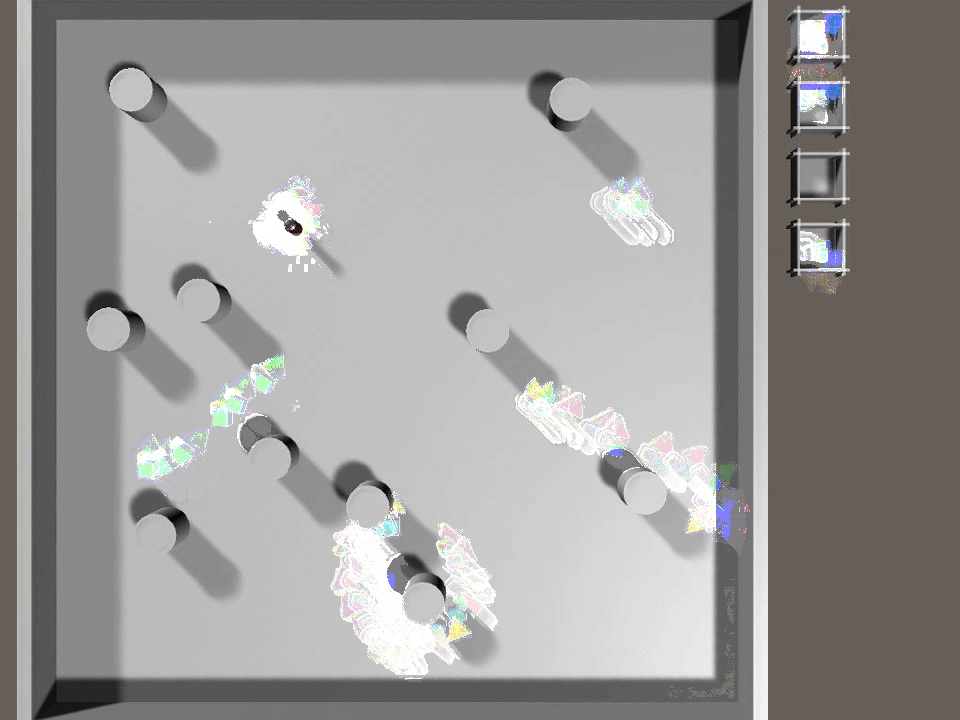
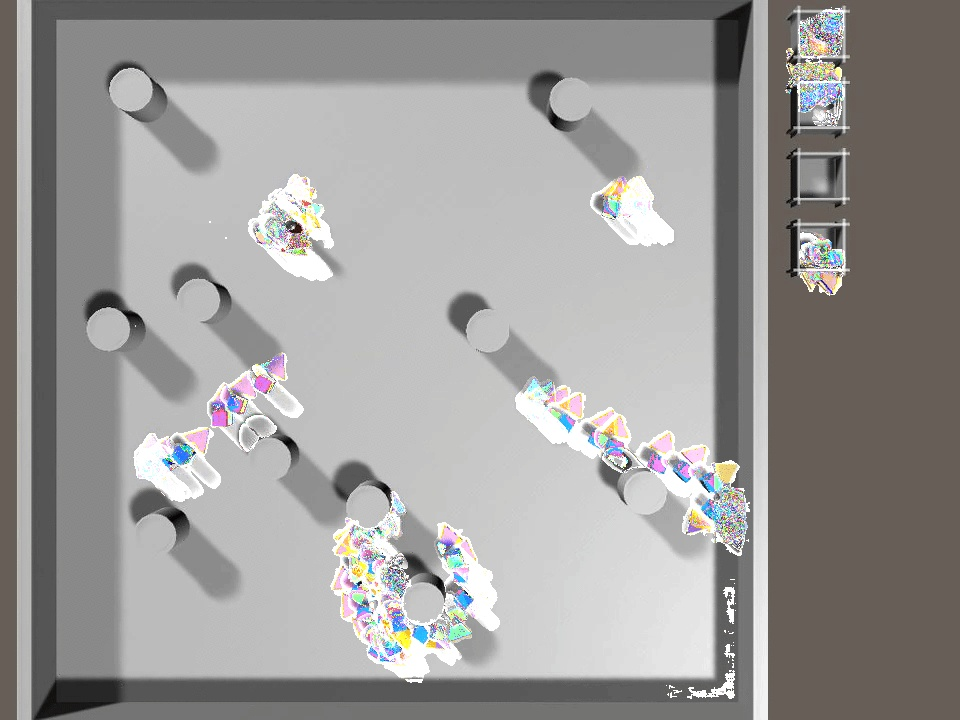
合成方法を変更

diff --git a/main.py b/main.py
@@ -19,15 +19,13 @@ while True:
     if img_sum is None:
         img_sum = img_src
     else:
-        #img_src_rgba = cv2.cvtColor(img_src, cv2.COLOR_RGB2RGBA)
         img_sum_rgba = cv2.cvtColor(img_sum, cv2.COLOR_RGB2RGBA)
         img_src_and = cv2.bitwise_and(frame, frame, mask=fgmask)
         img_src_rgba = cv2.cvtColor(img_src_and, cv2.COLOR_RGB2RGBA)
         img_src_rgba[..., 3] = np.where(np.all(img_src_and==0, axis=-1), 0, 255)
-        #img_sum = img_sum_rgba + img_src_rgba
-        img_sum = cv2.bitwise_or(img_sum_rgba, img_src_rgba)
-        #img_sum = img_sum_rgba + img_or
-        #img_sum = cv2.add(img_sum_rgba, img_src_rgba)
+        img_sum_add = img_sum_rgba + img_src_rgba
+        #img_sum = cv2.bitwise_or(img_sum_rgba, img_src_rgba)
+        img_sum = cv2.addWeighted(img_sum_add, 1.0, img_src_rgba, 1.0, 0)
 
     cv2.imshow("Frame", img_sum)
     key = cv2.waitKey(30)
